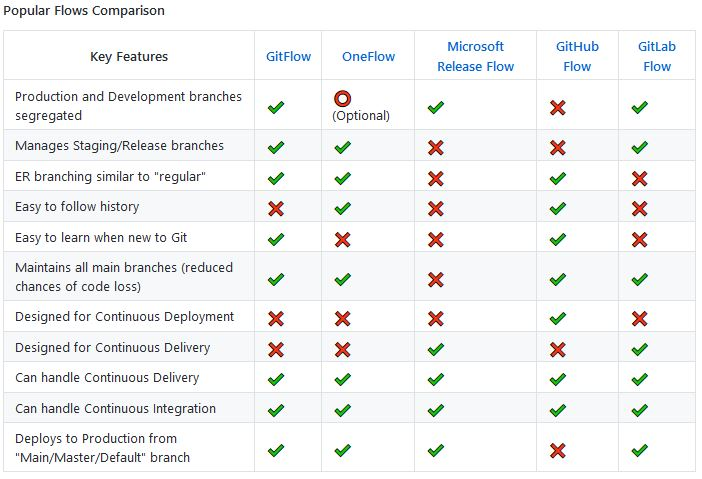
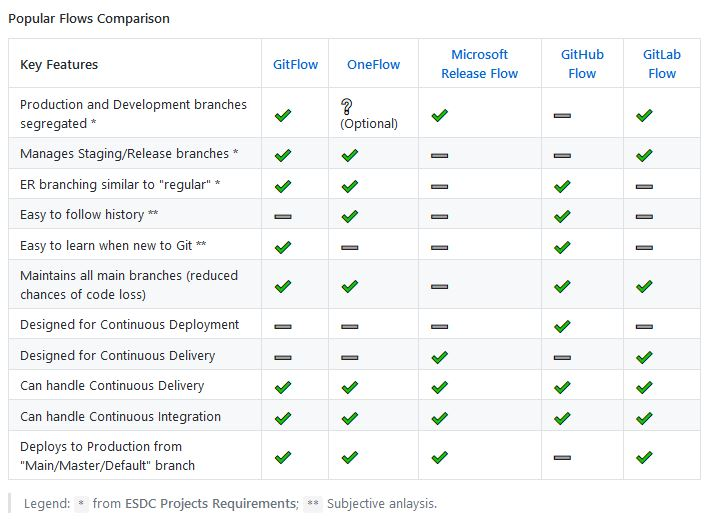
Modified the first 4 slides of the presentation (#19)

diff --git a/gitflow.html b/gitflow.html
@@ -32,6 +32,7 @@ $profile-gray: #eaebed;
       .remark-code, .remark-inline-code { font-family: 'Ubuntu Mono'; }
       .whoah { color: #d3080c }
       .okay { color: #278400 }
+      .answer { color: blue}
       /* .column:first-of-type {float:left}
       .column:last-of-type {float:right} */
       .column-first :nth-child(n), .column-last :nth-child(n) {margin-top: 0px;}
@@ -53,6 +54,38 @@ class: middle
         
 .right[![Right-aligned image](https://avatars2.githubusercontent.com/u/52010894?s=200&v=4)]
 
+---
+
+## What Is Git Worflow??
+
+--
+Short Answer...  
+
+.answer[A Git Workflow is a recipe or recommendation for how to use Git to accomplish work in a **consistent and productive manner**. Adopting the right workflow for your team so that you collaborate better and spend less time managing version control and more time developing code.]  
+
+
+--
+What is the things to consider when it's the time to choose a workflow?
+
+--
+.answer[
+- Does this workflow scale with team size?
+- Is it easy to undo mistakes and errors with this workflow?
+- Is collaboration important to your workflow?
+- Does this workflow impose any unnecessary overhead to the team?
+]
+
+---
+
+## Comparison of the Workflows
+![Git Workflows](./assets/GitWorkflows.JPG)
+
+---
+
+![Git Workflows](./assets/Workflows.JPG)
+<h3>
+.whoah[But remember that these workflows are designed to be guidelines rather than concrete rules!]
+</h3>
 ---
 
 ## What Is GitFlow??
@@ -216,9 +249,6 @@ When you are done then similar to finishing a release branch, a hotfix branch ge
 --
 **git branch -D hotfix_branch**  
 
----
-## Comparison of the Flows
-![Git Workflows](./assets/GitWorkflows.JPG)
 ---
 
 class: middle, center
